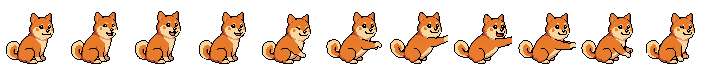
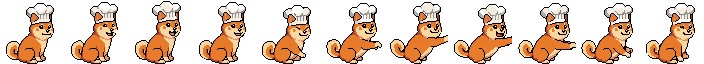
COOK!: the chef wears the closet's chef hat, drawn on by PixelLab
PixelLab drew the chef hat on all 11 of the chef's frames at once; only the
top of the head (hat and ears) is taken, grafted onto our frames above the
eyes so the body and the reach stay exactly as they were, and recoloured to
the closet chef hat's whites. The closet card and the WIN: CHEF HAT prompt
show the same toque.

diff --git a/index.html b/index.html
@@ -6196,7 +6196,6 @@ class CookBurger extends Microgame {
     this.fly = [];                       // food in the air: to the plate, or bouncing off it
     this.hop = 0; this.squash = 0; this.served = -1; this.endT = 0; this.hearts = [];
     this.reach = -1;                     // the chef's paw going out to put the food down (seconds in)
-    this.hat = { ...Closet.item('chef'), dx: 3 };   // the chef's head is turned to the customer: its hat sits a little to the right
     this.steam = [];                     // the patty sizzling as it lands
   }
   // a layer's art/cooklayers.png frame: the first bun is the bottom, the last the top
@@ -6279,13 +6278,13 @@ class CookBurger extends Microgame {
     g.clear();
     const t = this.t, served = this.served >= 0, lost = this.endT > 0 || (this.finished && !this.won);
     // the chef at the stove end, turned to the customer waiting at the other,
-    // both sitting behind the counter, which hides their legs. art/chefmove.png:
+    // both sitting behind the counter, which hides their legs. art/chefmove.png
+    // (its chef hat drawn on by PixelLab, the same as the closet's):
     // 0-3 sitting, tail going; 4-10 a paw reaching out to put the food down
     const cy = 238 - (this.hop > 0 ? 3 : 0);
     const chefF = this.reach >= 0 ? 4 + Math.min(6, Math.floor(this.reach / 0.04)) : Math.floor(t * 6) % 4, f = chefF;
     if (Assets.get('chefmove')) {
       g.sprite('chefmove', 40, cy - 64, { w: 128, h: 128, frame: f });
-      Closet.dress('chefmove', f, 40, cy - 64, 128, 128, this.hat);   // beat it and the hat's yours
     }
     if (Assets.get('custidle')) {
       // served: up it jumps, cheering, so it's seen over the burger
@@ -6304,7 +6303,6 @@ class CookBurger extends Microgame {
     if (this.reach >= 0 && Assets.get('chefmove')) {   // reaching out, the chef leans in over the food it's putting down (the counter still hides its legs)
       ctx.save(); ctx.beginPath(); ctx.rect(0, TOP, W, 196 - TOP); ctx.clip();
       g.sprite('chefmove', 40, cy - 64, { w: 128, h: 128, frame: chefF }); ctx.restore();
-      Closet.dress('chefmove', chefF, 40, cy - 64, 128, 128, this.hat);
     }
     for (const b of this.bins) {
       const dn = b.press > 0 ? 2 : 0;

diff --git a/art-extras/README.md b/art-extras/README.md
@@ -115,3 +115,10 @@ its eyes' middle on column 32) by `cut_worn.py`:
 
 To swap one: `python cut_worn.py <item>_<n>.png cell.png <mode> <extra> fs0.png [row0 row1]`
 and paste the cell into its column of `art/worn.png` (`band:` in `Closet.ITEMS`).
+
+`cook/chefmove-nohat.png` is COOK!'s chef before its hat. `art/chefmove.png`
+has PixelLab's chef hat drawn on every frame (`edit_image` on all 11 at once),
+grafted onto our own frames above the eyes so the body never moves, and
+recoloured to the closet chef hat's whites (version A). `chefmove-hat-a.png`
+is A as PixelLab coloured it (cream); `chefmove-hat-b.png` is the other
+version, a smaller toque between the ears.
